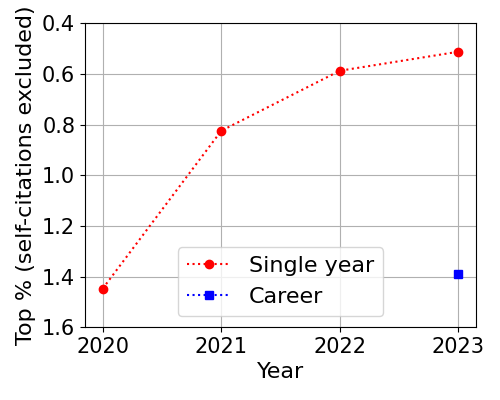
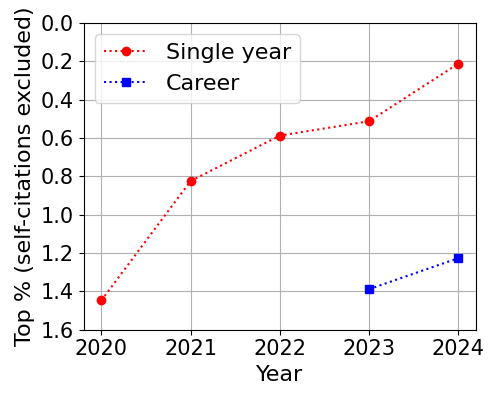
m

diff --git a/about/about.md b/about/about.md
@@ -28,7 +28,7 @@ University](http://www.pku.edu.cn/), Beijing China.
 - Elected to the Young Elite Scientists Sponsorship Program (青年人才托举工程) by the [CAST](http://www.cast.org.cn/)
 - [2020 Breakthrough Prize in Fundamental
   Physics](https://friendshao.github.io/docs/breakthrough_Certificate_2020.pdf) awarded to the EHTC (shared by 347 members)
-- World's Top 2% Scientists [2020-2023](top2.png) ([data](https://elsevier.digitalcommonsdata.com/datasets/btchxktzyw/6))
+- World's Top 2% Scientists [2020-2024](top2.png) ([data](https://elsevier.digitalcommonsdata.com/datasets/btchxktzyw/7))
 
 ### Research Interests
 
